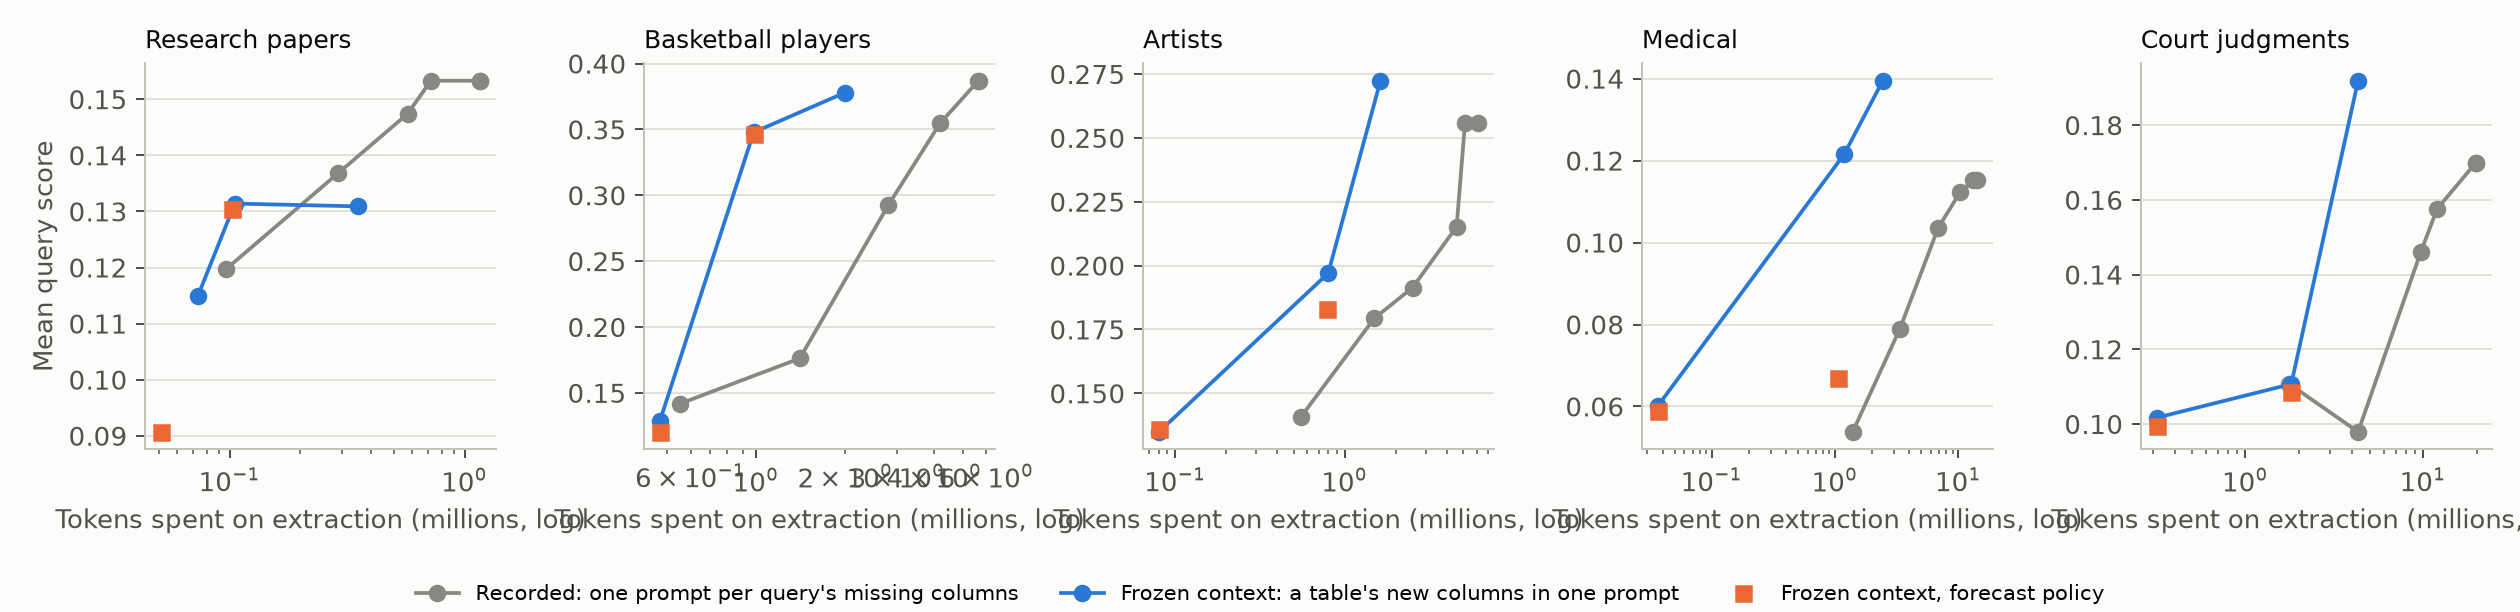
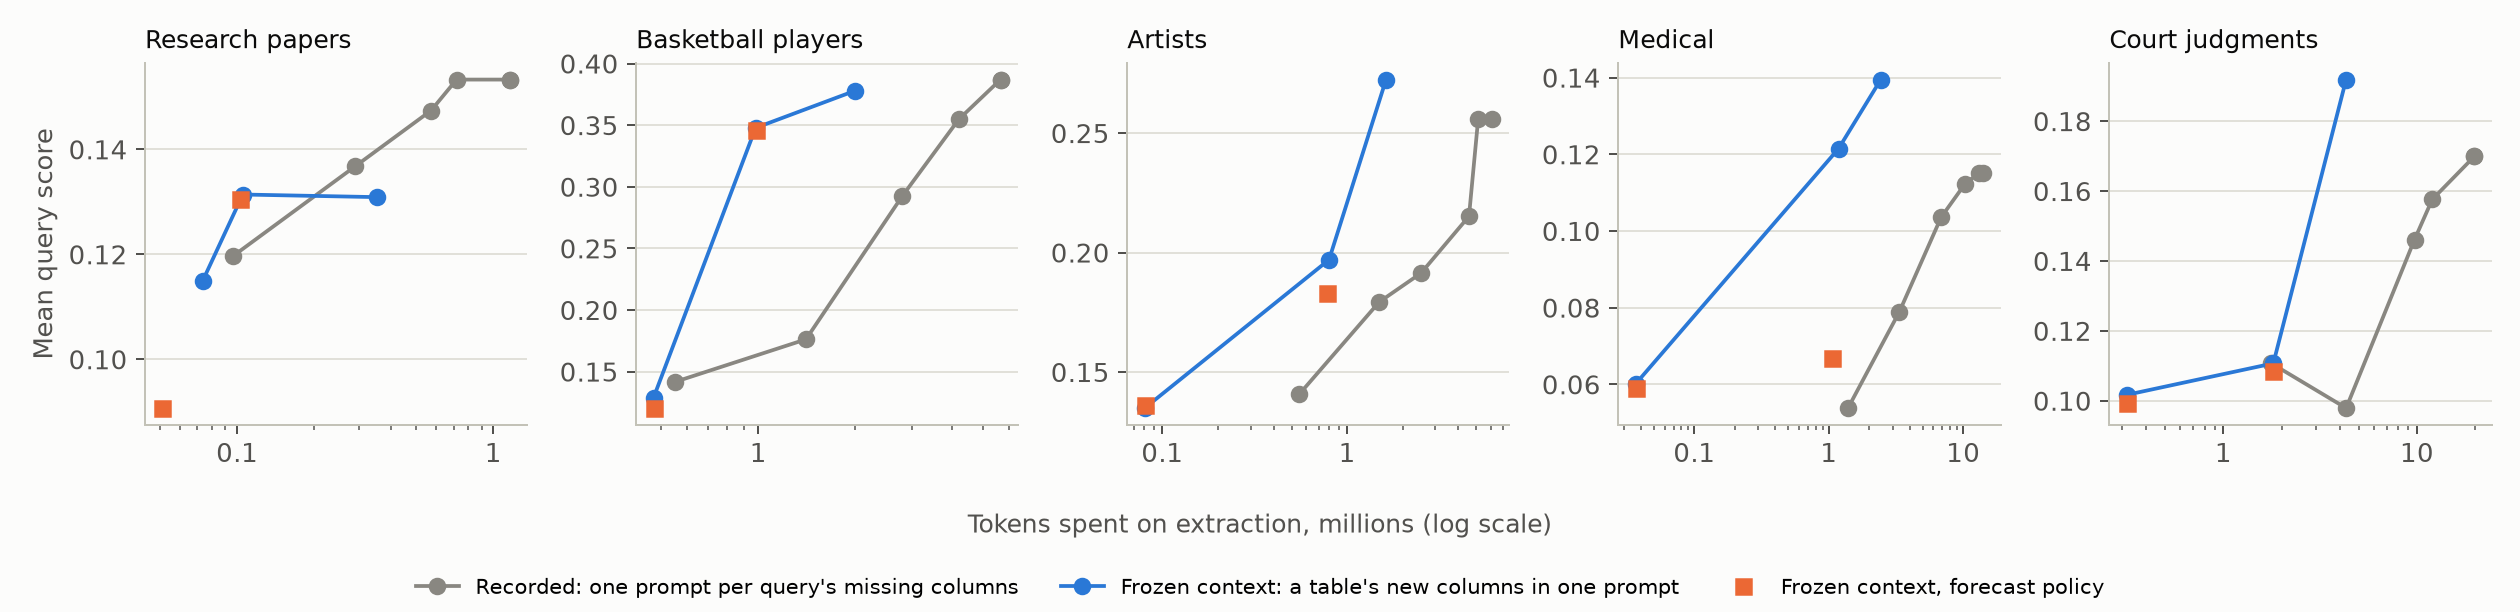
Budget-curve figure tidied

diff --git a/results/experiments/why/intervention_figures.py b/results/experiments/why/intervention_figures.py
@@ -160,14 +160,17 @@ def budget_curves():
         if fo:
             ax.plot([p["tokens"] / 1e6 for p in fo], [p["score"] for p in fo], marker="s", linestyle="none", color=ORANGE, label="Frozen context, forecast policy")
         ax.set_xscale("log")
+        ax.xaxis.set_major_locator(matplotlib.ticker.LogLocator(base=10, numticks=5))
+        ax.xaxis.set_major_formatter(matplotlib.ticker.FuncFormatter(lambda v, _: f"{v:g}"))
+        ax.xaxis.set_minor_formatter(matplotlib.ticker.NullFormatter())
         ax.set_title(names[c], fontsize=10, loc="left", color=INK)
-        ax.set_xlabel("Tokens spent on extraction (millions, log)")
         if c == "cspaper":
             ax.set_ylabel("Mean query score")
         style(ax)
+    fig.supxlabel("Tokens spent on extraction, millions (log scale)", fontsize=10, color=INK2, y=0.12)
     handles, labels = axes[0].get_legend_handles_labels()
-    fig.legend(handles, labels, loc="lower center", ncol=3, fontsize=8.5, frameon=False, bbox_to_anchor=(0.5, -0.02))
-    fig.tight_layout(rect=(0, 0.08, 1, 1))
+    fig.legend(handles, labels, loc="lower center", ncol=3, fontsize=8.5, frameon=False, bbox_to_anchor=(0.5, -0.01))
+    fig.tight_layout(rect=(0, 0.1, 1, 1))
     fig.savefig(OUT / "w12_budget_curves.png", dpi=180)
     plt.close(fig)
     print(OUT / "w12_budget_curves.png")
